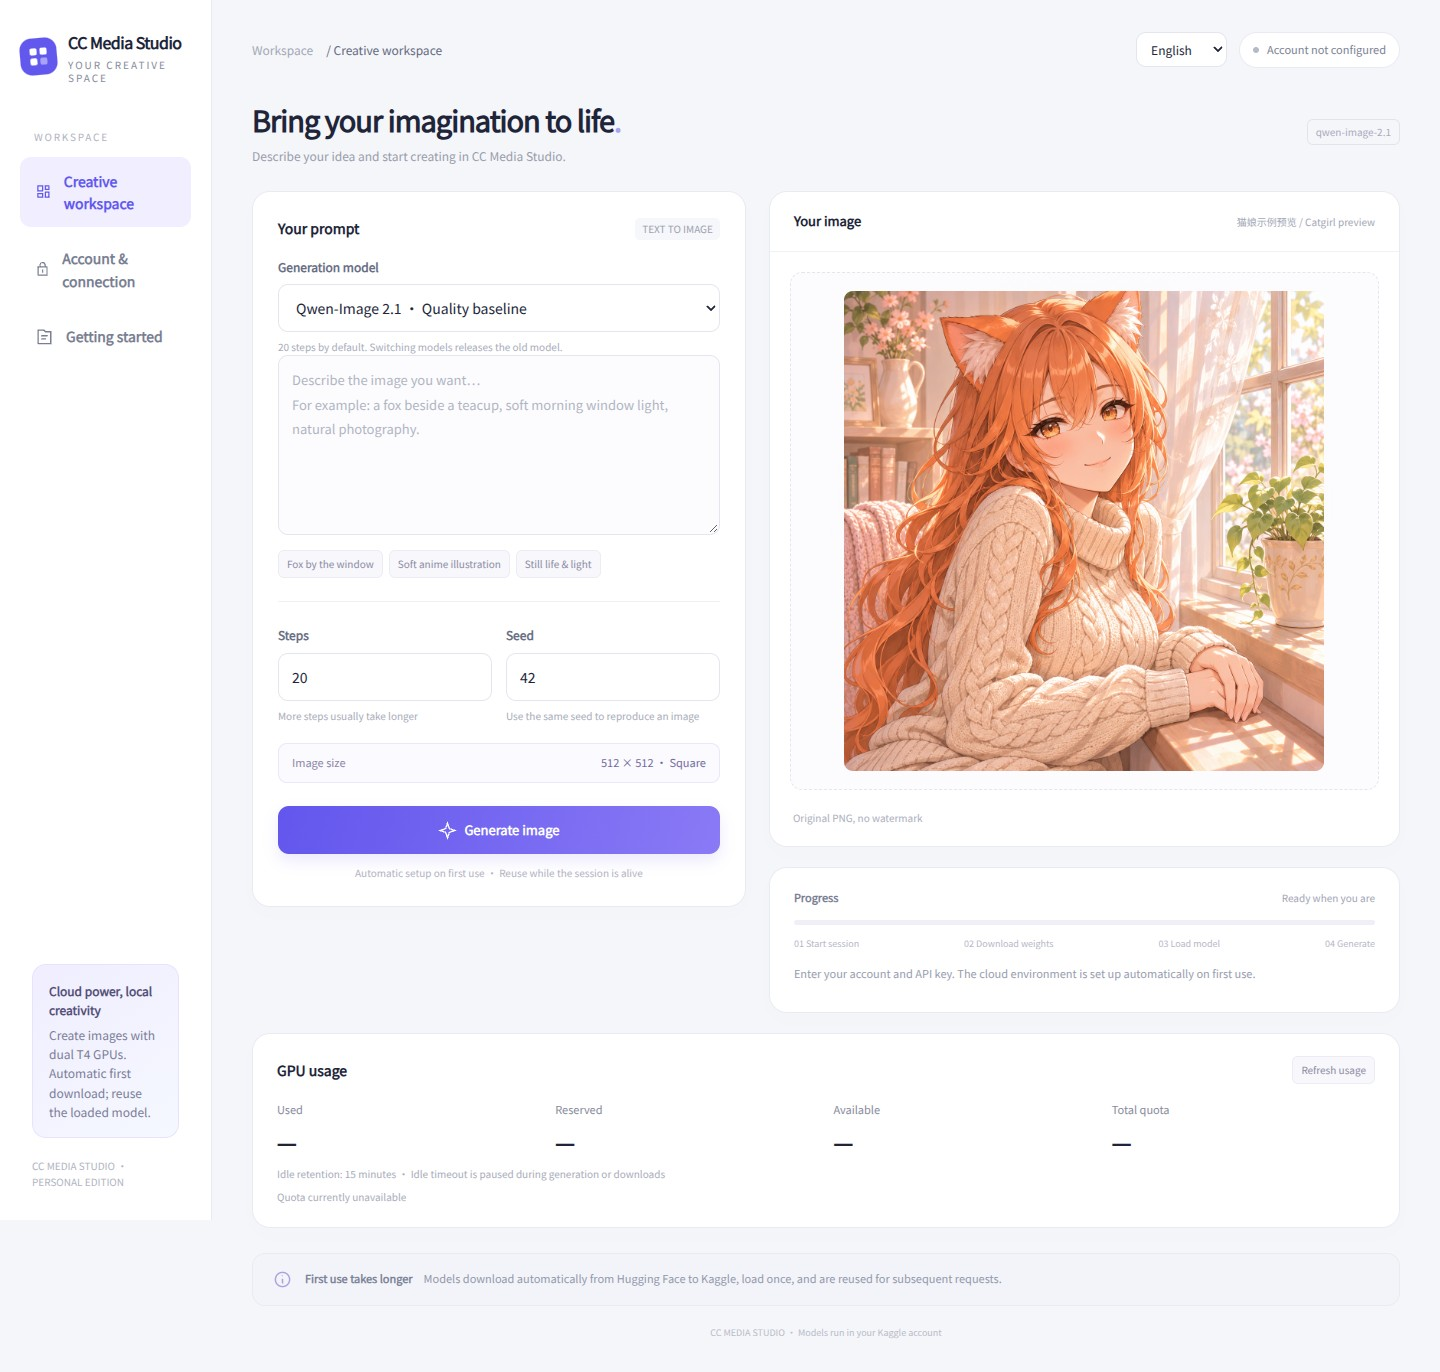
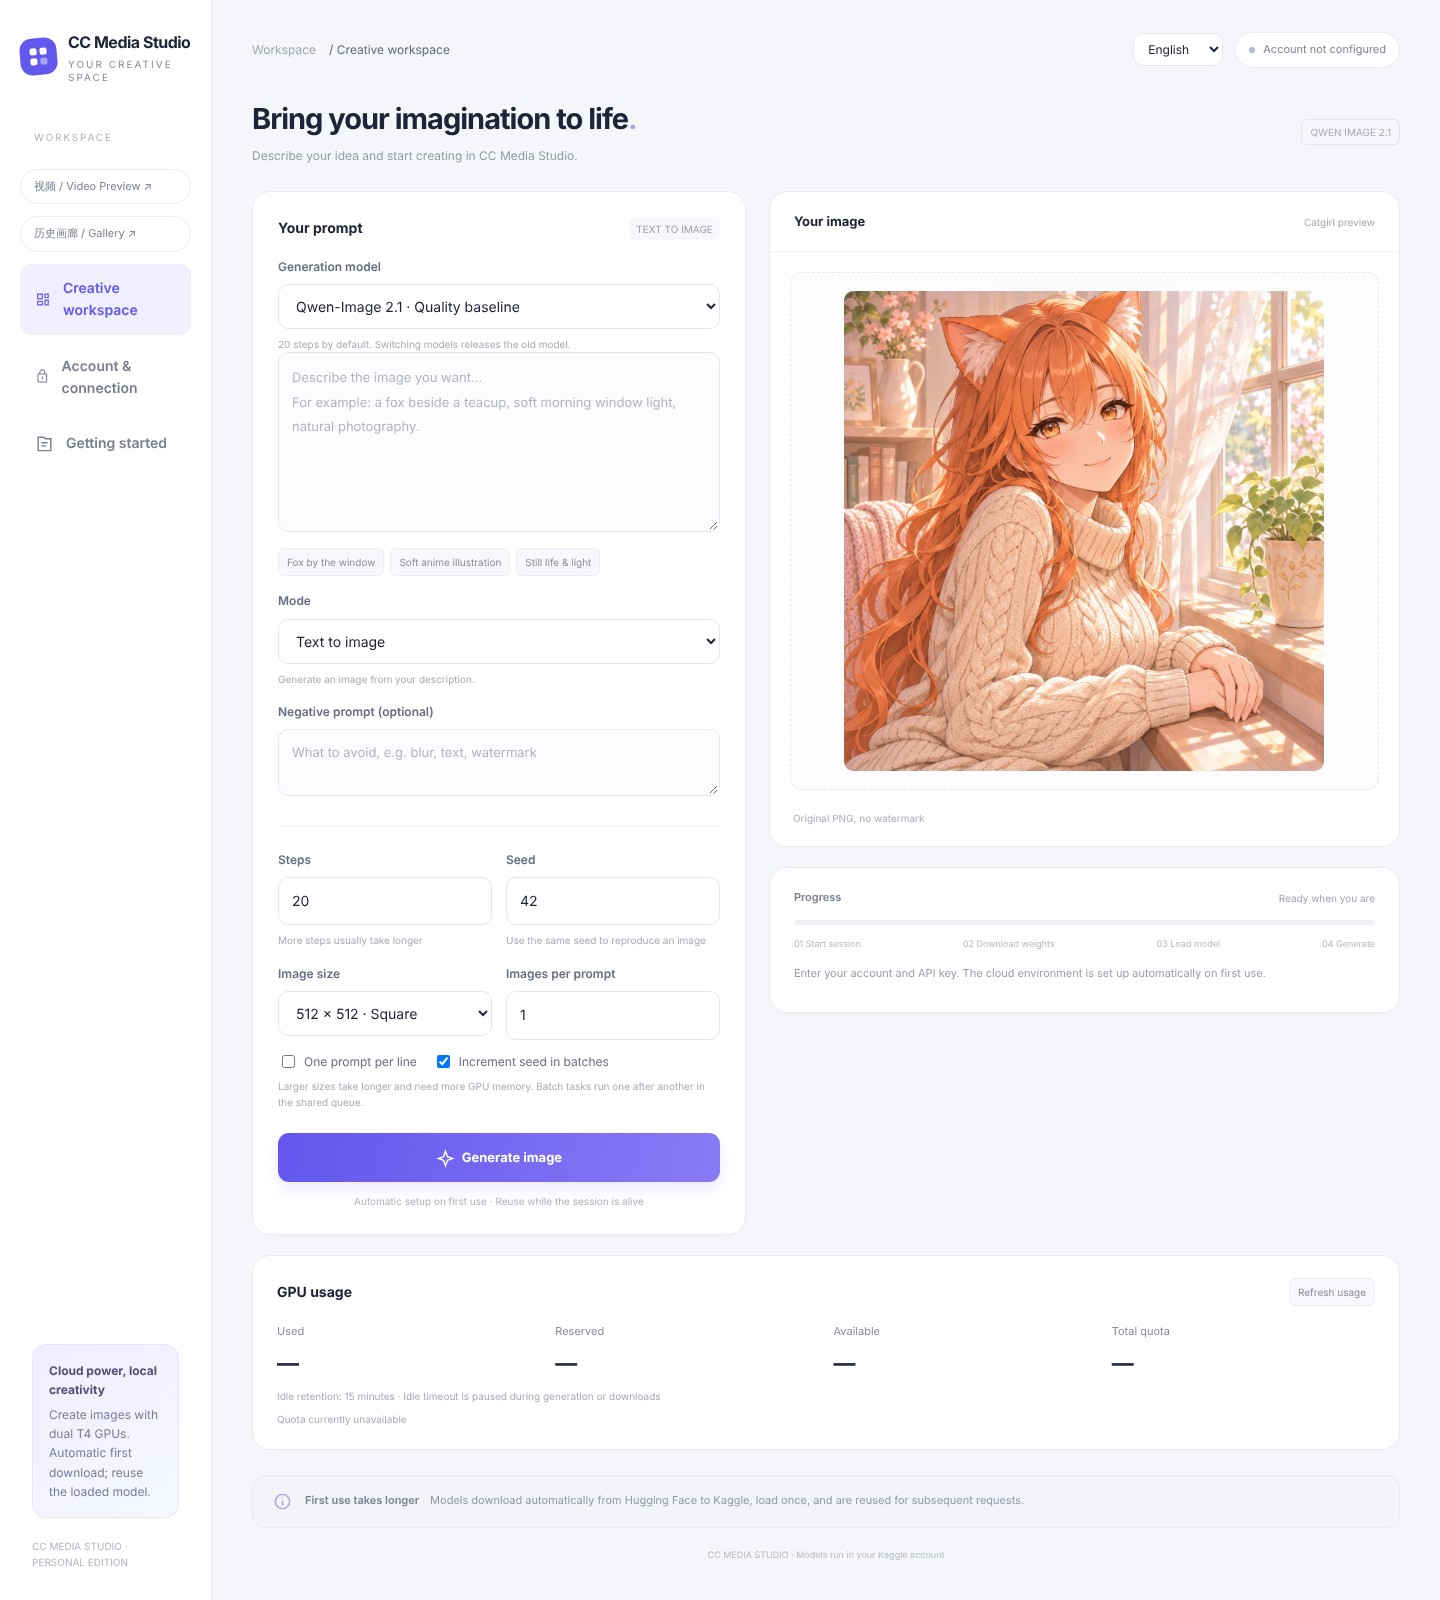
Release 0.10.0 preview: new screenshots, version and changelog
Refresh the README screenshots with the new mode, size and batch controls
(same preview image as before), widen the spacing above the size row,
bump the version to 0.10.0 and add a bilingual changelog.

Claude-Session: https://claude.ai/code/session_01KzE8FUdHdGsFRWMxxZVpSa

diff --git a/easy_ui.html b/easy_ui.html
@@ -2,7 +2,7 @@
 <style>
 :root{--ink:#202439;--muted:#85899a;--line:#e9ebf2;--accent:#6258ee;--accent2:#8b83ff;--canvas:#f5f6fa}*{box-sizing:border-box}body{margin:0;background:var(--canvas);color:var(--ink);font:14px/1.6 Inter,"Segoe UI","PingFang SC","Microsoft YaHei",system-ui,sans-serif}button,input,textarea,select{font:inherit}button,a,input,textarea,select{outline-color:#b8b2ff}button{cursor:pointer}button:disabled{opacity:.5;cursor:wait}a{color:var(--accent);text-decoration:none}svg{width:19px;height:19px;fill:none;stroke:currentColor;stroke-width:1.8;vertical-align:middle}.app{display:flex;min-height:100vh}.rail{width:212px;flex-shrink:0;background:#fff;border-right:1px solid var(--line);padding:30px 20px;display:flex;flex-direction:column;position:fixed;inset:0 auto 0 0}.brand{display:flex;align-items:center;gap:11px;font-size:16px;font-weight:750;letter-spacing:-.5px}.brand-icon{display:grid;grid-template-columns:repeat(2,7px);gap:3px;padding:10px;border-radius:12px;background:var(--accent);transform:rotate(-5deg)}.brand-icon i{width:7px;height:7px;border-radius:2px;background:#fff}.brand-icon i:last-child{opacity:.45}.brand small{display:block;color:var(--muted);font:10px/1.3 system-ui;letter-spacing:2px;margin-top:2px}.nav-title{font-size:10px;letter-spacing:1.8px;color:#afb2bf;margin:45px 14px 12px}.nav{display:grid;gap:7px}.nav button{display:flex;gap:12px;align-items:center;border:0;background:transparent;padding:13px 15px;text-align:left;border-radius:11px;color:#797e92;font-weight:600}.nav button.active{background:#f0eeff;color:var(--accent)}.rail-bottom{margin-top:auto;padding:20px 12px 0}.cloud-card{background:linear-gradient(145deg,#f0eeff,#f5f8ff);padding:16px;border:1px solid #e7e3ff;border-radius:14px;font-size:12px;color:#797b96}.cloud-card strong{display:block;color:#555078;margin-bottom:6px}.rail-bottom>small{display:block;color:#afb3c0;font-size:10px;margin-top:20px}main{margin-left:212px;width:calc(100% - 212px);padding:32px 40px}.top{display:flex;justify-content:space-between;align-items:center;margin-bottom:31px}.breadcrumb{color:#a2a6b5;font-size:12px}.breadcrumb span{color:#61677d;margin-left:13px}.pill{display:flex;align-items:center;gap:8px;background:#fff;border:1px solid var(--line);border-radius:30px;padding:8px 13px;color:#7a8093;font-size:11px}.dot{width:6px;height:6px;border-radius:50%;background:#b5bac9}.dot.online{background:#41bd97}.intro{display:flex;justify-content:space-between;align-items:center;margin-bottom:26px}h1{font-size:29px;letter-spacing:-1px;line-height:1.4;margin:0 0 7px;font-weight:740}.intro p{margin:0;color:#969baa;font-size:12px}.version{font-size:10px;color:#a8aabc;border:1px solid #e1e4ed;border-radius:6px;padding:4px 8px}.workspace{display:grid;grid-template-columns:minmax(300px,.9fr) minmax(360px,1.15fr);gap:23px;align-items:start}.panel{background:#fff;border:1px solid var(--line);border-radius:18px;box-shadow:0 7px 20px #30355b03}.editor{padding:25px}.section-head{display:flex;align-items:center;justify-content:space-between;margin-bottom:17px}.section-head h2{font-size:14px;margin:0;font-weight:680}.tag{color:#9b9fae;font-size:10px;border-radius:5px;background:#f6f7fa;padding:3px 7px}.label{font-size:12px;color:#686e83;font-weight:600;display:block;margin:15px 0 8px}textarea,input,select{width:100%;border:1px solid #e4e6ef;border-radius:10px;padding:12px 13px;color:var(--ink);background:#fff}textarea{resize:vertical;min-height:180px;line-height:1.9;background:#fcfcfe;font-size:13px}textarea::placeholder,input::placeholder{color:#b0b4c2}.chips{display:flex;flex-wrap:wrap;gap:6px;margin-top:10px}.chip{background:#f7f7fc;border:1px solid #ececf5;border-radius:6px;padding:5px 8px;font-size:10px;color:#8a8a9f}.divider{height:1px;background:#f0f1f6;margin:23px 0}.two{display:grid;grid-template-columns:1fr 1fr;gap:14px}.two .label{margin-top:0}.hint{font-size:10px;color:#a6aab8;margin:7px 0 0}.resolution{margin-top:19px;display:flex;justify-content:space-between;align-items:center;border:1px solid #e9e7fb;background:#fbfaff;border-radius:9px;padding:10px 13px;color:#8a86a4;font-size:11px}.resolution strong{font-weight:550;color:#706a9c}.primary{border:0;width:100%;border-radius:11px;background:linear-gradient(105deg,#6256ed,#8a7af6);color:white;padding:14px 18px;font-size:13px;font-weight:650;box-shadow:0 7px 15px #7461ef23;margin-top:23px}.primary svg{margin-right:7px}.run-note{text-align:center;font-size:10px;color:#afb1bf;margin:11px 0 0}.preview-head{padding:19px 24px;border-bottom:1px solid #f0f1f6;display:flex;justify-content:space-between;align-items:center}.preview-head h2{margin:0;font-size:13px}.preview-head span{font-size:10px;color:#a1a6b5}.preview{margin:20px;min-height:400px;border:1px dashed #e5e5f0;border-radius:12px;background:radial-gradient(ellipse at 50% 45%,#f0edff70,transparent 63%),#fcfcfe;display:flex;align-items:center;justify-content:center;padding:18px;position:relative}.empty{text-align:center;color:#b0b2c1;max-width:260px}.empty-icon{width:64px;height:64px;background:#eeebff;border:1px solid #e7e2ff;color:#a39ae5;border-radius:19px;display:grid;place-items:center;margin:0 auto 20px;transform:rotate(-6deg)}.empty-icon svg{width:29px;height:29px}.empty h3{font-size:13px;color:#8b8eaa;font-weight:550;margin:0 0 7px}.empty p{font-size:11px;line-height:1.8;margin:0}.result{display:none;max-width:100%;max-height:480px;border-radius:9px}.result-footer{display:flex;justify-content:space-between;align-items:center;padding:0 23px 20px;font-size:10px;color:#a9adbb}.save{display:none;color:var(--accent);border:1px solid #e6e2ff;background:#f9f8ff;padding:6px 11px;border-radius:7px}.status-card{margin-top:20px;padding:21px 24px}.status-top{display:flex;align-items:center;justify-content:space-between;font-size:11px;margin-bottom:13px}.status-top strong{color:#7a7f94;font-weight:600}.status-top span{color:#9fa3b5;font-size:10px}.track{background:#f0eff8;height:5px;border-radius:8px;overflow:hidden}.bar{height:100%;width:0;background:linear-gradient(90deg,#7565f0,#a89af9);border-radius:8px;transition:width .3s}.bar.indeterminate{width:30%;animation:slide 1.6s infinite ease-in-out}@keyframes slide{from{transform:translateX(-100%)}to{transform:translateX(430%)}}.status{font-size:11px;color:#969bae;margin:12px 0 0;line-height:1.9;white-space:pre-wrap;overflow-wrap:anywhere}.stages{display:flex;justify-content:space-between;font-size:9px;color:#b5b6c7;margin:12px 0 0}.stages span.active{color:var(--accent)}.stages span.done{color:#48aa8c}.file{font-size:9px;color:#b0b3c2;margin-top:7px;overflow-wrap:anywhere}.task{display:none;font-size:10px;margin-top:8px}.help{margin-top:25px;background:#eef1f844;border:1px solid #e9ebf2;border-radius:13px;padding:16px 20px;display:flex;gap:13px;color:#9097aa;font-size:11px}.help svg{flex-shrink:0;color:#aaa1df}.help strong{color:#7c8399;font-weight:600}.guide{display:none;grid-template-columns:repeat(3,1fr);gap:15px;margin-top:20px}.guide article{background:#fff;padding:20px;border:1px solid var(--line);border-radius:13px;font-size:11px;color:#969bad}.guide h3{font-size:12px;color:#666d85;margin:0 0 8px}.overlay{display:none;position:fixed;inset:0;background:#151c3b65;backdrop-filter:blur(5px);z-index:50;align-items:center;justify-content:center;padding:20px}.dialog{background:white;border-radius:20px;padding:30px;width:450px;max-width:100%;max-height:94vh;overflow:auto;box-shadow:0 24px 90px #131b5030}.dialog-top{display:flex;align-items:center;justify-content:space-between}.dialog-top h2{font-size:20px;margin:0}.close{border:0;background:#f5f6fa;color:#8b90a3;width:28px;height:28px;border-radius:8px}.dialog>p{font-size:11px;color:#9b9faf;margin:9px 0 20px}.dialog label{font-size:11px;display:block;font-weight:600;color:#777c91;margin:16px 0 7px}.dialog input{font-size:12px}.check{display:flex!important;align-items:center;gap:8px;font-weight:400!important;color:#a0a4b2!important}.check input{width:auto;accent-color:var(--accent)}details{border-top:1px solid var(--line);padding-top:12px;margin-top:18px;font-size:10px;color:#969bad}summary{cursor:pointer}.api{display:none;background:#f7f7fc;font-size:10px;padding:12px;border-radius:8px;margin-top:12px;overflow-wrap:anywhere}.setup-status{font-size:10px;color:#9da3b3;white-space:pre-wrap}.footer{margin-top:20px;text-align:center;color:#b6bac7;font-size:9px}@media(max-width:1150px){.rail{width:170px;padding:25px 15px}.brand{font-size:16px}main{margin-left:170px;width:calc(100% - 170px);padding:27px}.workspace{grid-template-columns:1fr 1.1fr;gap:16px}.editor{padding:20px}.preview{min-height:380px}.brand small{font-size:8px}}@media(max-width:880px){.rail{position:static;width:100%;height:auto;padding:15px 20px;flex-direction:row;align-items:center;justify-content:space-between;border-right:0;border-bottom:1px solid var(--line)}.app{display:block}.nav{display:flex}.nav button{padding:9px;font-size:11px}.nav-title,.rail-bottom{display:none}main{margin:0;width:100%;padding:24px 18px}.workspace{grid-template-columns:1fr}.preview{min-height:360px}.guide{grid-template-columns:1fr}.intro h1{font-size:25px}.top{margin-bottom:22px}}
 .top-actions{display:flex;gap:12px;align-items:center}.language-select{width:auto;max-width:130px;padding:7px 10px;font-size:12px}.top{gap:12px;flex-wrap:wrap}.usage-card{margin-top:20px;padding:22px 24px}.usage-grid{display:grid;grid-template-columns:repeat(4,1fr);gap:15px}.usage-grid span{display:block;font-size:11px;color:var(--muted)}.usage-grid strong{display:block;font-size:22px;margin-top:5px}@media(max-width:600px){.usage-grid{grid-template-columns:repeat(2,1fr)}}@media(max-width:600px){.rail{flex-wrap:wrap;gap:12px}.nav{width:100%;justify-content:space-between}.nav button{flex:1;min-width:0;gap:6px}.intro{flex-wrap:wrap;gap:12px}.workspace>*,.two>div{min-width:0}.brand{font-size:16px}}
-textarea.short{min-height:64px;line-height:1.6}#brushFields{margin-top:14px}.mask-stage{position:relative;margin-top:10px;border-radius:9px;overflow:hidden;background:#f3f3f8}.mask-stage canvas{display:block;width:100%;height:auto}.mask-stage .mask{position:absolute;inset:0;opacity:.55;cursor:crosshair;touch-action:none}input[type=range]{padding:0;border:0;accent-color:var(--accent)}.checks{display:flex;flex-wrap:wrap;gap:6px 16px;margin-top:12px;font-size:12px;color:#686e83}.checks label{display:flex;align-items:center;gap:6px}.checks input{width:auto}.batch{padding:0 23px 20px}.batch-head{display:flex;justify-content:space-between;align-items:center;font-size:11px;color:#8a8a9f;margin-bottom:10px}.batch-grid{display:grid;grid-template-columns:repeat(auto-fill,minmax(88px,1fr));gap:8px}.batch-grid img{width:100%;aspect-ratio:1;object-fit:cover;border-radius:7px;cursor:pointer;border:1px solid var(--line)}.batch-grid span{display:grid;place-items:center;aspect-ratio:1;border-radius:7px;border:1px dashed var(--line);font-size:10px;color:#a6aab8}
+textarea.short{min-height:64px;line-height:1.6}#brushFields{margin-top:14px}.batch-row{margin-top:16px}.mask-stage{position:relative;margin-top:10px;border-radius:9px;overflow:hidden;background:#f3f3f8}.mask-stage canvas{display:block;width:100%;height:auto}.mask-stage .mask{position:absolute;inset:0;opacity:.55;cursor:crosshair;touch-action:none}input[type=range]{padding:0;border:0;accent-color:var(--accent)}.checks{display:flex;flex-wrap:wrap;gap:6px 16px;margin-top:12px;font-size:12px;color:#686e83}.checks label{display:flex;align-items:center;gap:6px}.checks input{width:auto}.batch{padding:0 23px 20px}.batch-head{display:flex;justify-content:space-between;align-items:center;font-size:11px;color:#8a8a9f;margin-bottom:10px}.batch-grid{display:grid;grid-template-columns:repeat(auto-fill,minmax(88px,1fr));gap:8px}.batch-grid img{width:100%;aspect-ratio:1;object-fit:cover;border-radius:7px;cursor:pointer;border:1px solid var(--line)}.batch-grid span{display:grid;place-items:center;aspect-ratio:1;border-radius:7px;border:1px dashed var(--line);font-size:10px;color:#a6aab8}
 </style></head><body><div class="app">
 <aside class="rail"><div class="brand"><span class="brand-icon"><i></i><i></i><i></i><i></i></span><span>CC Media Studio<small>YOUR CREATIVE SPACE</small></span></div><div class="nav-title">WORKSPACE</div><a class="pill" href="/video" style="display:block;margin:12px 0">视频 / Video Preview ↗</a><a class="pill" href="/gallery" style="display:block;margin-bottom:12px">历史画廊 / Gallery ↗</a><nav class="nav"><button class="active" id="workspaceTab"><svg viewBox="0 0 24 24"><path d="M4 4h7v7H4zM15 4h5v5h-5zM15 13h5v7h-5zM4 15h7v5H4z"/></svg>创作工作台</button><button id="settingsTab"><svg viewBox="0 0 24 24"><path d="M8 8V5a4 4 0 0 1 8 0v3M5 8h14v13H5z"/><path d="M12 12v5"/></svg>账号与连接</button><button id="guideTab"><svg viewBox="0 0 24 24"><path d="M4 4h7l2 2h7v15H4zM8 11h8M8 15h6"/></svg>使用说明</button></nav><div class="rail-bottom"><div class="cloud-card"><strong>云端算力，本地创作</strong>双 T4 为你生成画面。<br>首次自动下载，之后复用模型。</div><small>CC MEDIA STUDIO · PERSONAL EDITION</small></div></aside>
 <main><header class="top"><div class="breadcrumb">工作空间<span>／ 创作工作台</span></div><div class="top-actions"><select id="languageSelect" class="language-select" aria-label="Language / 语言"><option value="zh">简体中文</option><option value="en">English</option></select><button class="pill" id="connectionStatus"><i class="dot" id="connectionDot"></i><span id="connectionText">尚未配置账号</span></button></div></header><section class="intro"><div><h1>把想象，变成画面<span style="color:#aaa2ef">。</span></h1><p>描述你的灵感，在 CC Media Studio 开始创作。</p></div><span class="version" id="modelVersion">QWEN IMAGE 2.1</span></section>

diff --git a/packaging/linux_packages.py b/packaging/linux_packages.py
@@ -4,7 +4,7 @@ import subprocess
 from pathlib import Path
 
 ROOT=Path(__file__).resolve().parents[1]
-VERSION='0.9.0'
+VERSION='0.10.0'
 
 def main():
     stage=ROOT/'build/linux-package'

diff --git a/app_entry.py b/app_entry.py
@@ -3,7 +3,7 @@ import os
 import sys
 from pathlib import Path
 
-VERSION='0.9.0'
+VERSION='0.10.0'
 
 
 def main():

diff --git a/CHANGELOG.md b/CHANGELOG.md
@@ -1,0 +1,37 @@
+# 更新记录 / Changelog
+
+## 0.10.0（预览 / preview）
+
+> 新功能已通过本地测试（Python、GUI、Notebook 与浏览器端到端），尚未在 Kaggle 双 T4 上实测速度和显存。
+> New features pass local tests (Python, GUI, notebooks and browser end-to-end) but have not yet been measured on Kaggle dual T4.
+
+### 新增
+
+- **图生图与局部编辑**：Z-Image Turbo 与 SDXL-Lightning 支持参考图重绘（强度 0.05–1）和涂抹局部编辑；复用已加载模型，不额外下载权重。
+- **图生视频**：LTX-Video 2B 与 Wan2.2 5B 可上传首帧。
+- **更多尺寸**：512×512、768×768、1024×1024、768×512、512×768、1024×576、576×1024。
+- **负面提示词**：Qwen-Image 2.1 与 Wan 视频模型。
+- **GUI 批量**：每个提示词 1–8 张、每行一个提示词、种子递增，最多 32 个任务；批量结果和画廊列表可打包 ZIP。
+- **画廊**：显示作品使用的参考图与蒙版；“继续编辑”和“作为视频首帧”直接带入工作台。
+- **全部入口**：HTTP API、MCP（支持本机图片路径）、ComfyUI（新增 CC Media Image Edit 节点，视频节点支持首帧）、两个 Kaggle Notebook。
+
+### 变化
+
+- 上传图片在本机按文件签名校验（不超过 8 MB），按 SHA-256 保存，在云端按目标尺寸居中裁剪；删除作品时清理不再使用的输入。
+- 本机后台需重启后才会启用新功能，旧后台会给出提示。
+- Kaggle Notebook 根据当前运行时重新生成。
+
+### Added
+
+- Image-to-image and inpainting on Z-Image Turbo and SDXL-Lightning, reusing the loaded models.
+- Image-to-video from a first frame on LTX-Video 2B and Wan2.2 5B.
+- Seven output sizes up to 1024; negative prompts for Qwen-Image 2.1 and the Wan models.
+- GUI batches (1–8 per prompt, one prompt per line, incrementing seeds, up to 32 tasks) and ZIP export from batches and the gallery.
+- Gallery shows reference images and masks, with Edit further and Use as video first frame.
+- Available in the HTTP API, MCP (local image paths), ComfyUI (CC Media Image Edit node, video first frame) and both Kaggle notebooks.
+
+### Changed
+
+- Uploads are checked by signature (8 MB maximum), stored by SHA-256 and center-cropped on the GPU kernel; deleting a work releases unused inputs.
+- Restart the local worker to enable the new features; an older worker reports this.
+- The Kaggle notebooks are regenerated from the current runtime.

diff --git a/README.en.md b/README.en.md
@@ -6,7 +6,7 @@
 
 This branch includes a [video preview](docs/video.md): three model tiers, MP4 playback/download, and GUI, MCP, ComfyUI and Kaggle notebook entry points.
 
-New: an [image editing, sizes and batches preview](docs/editing.md) with image-to-image, inpainting, image-to-video, seven sizes, negative prompts, and GUI batches with ZIP export.
+New in 0.10.0 ([changelog](CHANGELOG.md)): an [image editing, sizes and batches preview](docs/editing.md) with image-to-image, inpainting, image-to-video, seven sizes, negative prompts, and GUI batches with ZIP export.
 
 Generate images with your own Kaggle GPU quota. Start the launcher, enter your Kaggle username and API key, and create in a lightweight local interface. Model downloads, loading, and inference run in the cloud.
 

diff --git a/README.md b/README.md
@@ -6,7 +6,7 @@
 
 本分支提供 [视频功能预览](docs/video.md)：三档模型、MP4 播放与下载，以及 GUI、MCP、ComfyUI 和 Kaggle Notebook 入口。
 
-新增 [图片编辑、尺寸与批量预览](docs/editing.md)：图生图、涂抹局部编辑、图生视频、7 种尺寸、负面提示词，以及 GUI 批量生成与 ZIP 打包。
+0.10.0 新增 [图片编辑、尺寸与批量预览](docs/editing.md)（[更新记录](CHANGELOG.md)）：图生图、涂抹局部编辑、图生视频、7 种尺寸、负面提示词，以及 GUI 批量生成与 ZIP 打包。
 
 使用自己的 Kaggle GPU 额度生成图片。双击启动器，填写 Kaggle 用户名和 API Key，即可在本机界面创作；模型下载、加载和推理都在云端完成。
 
